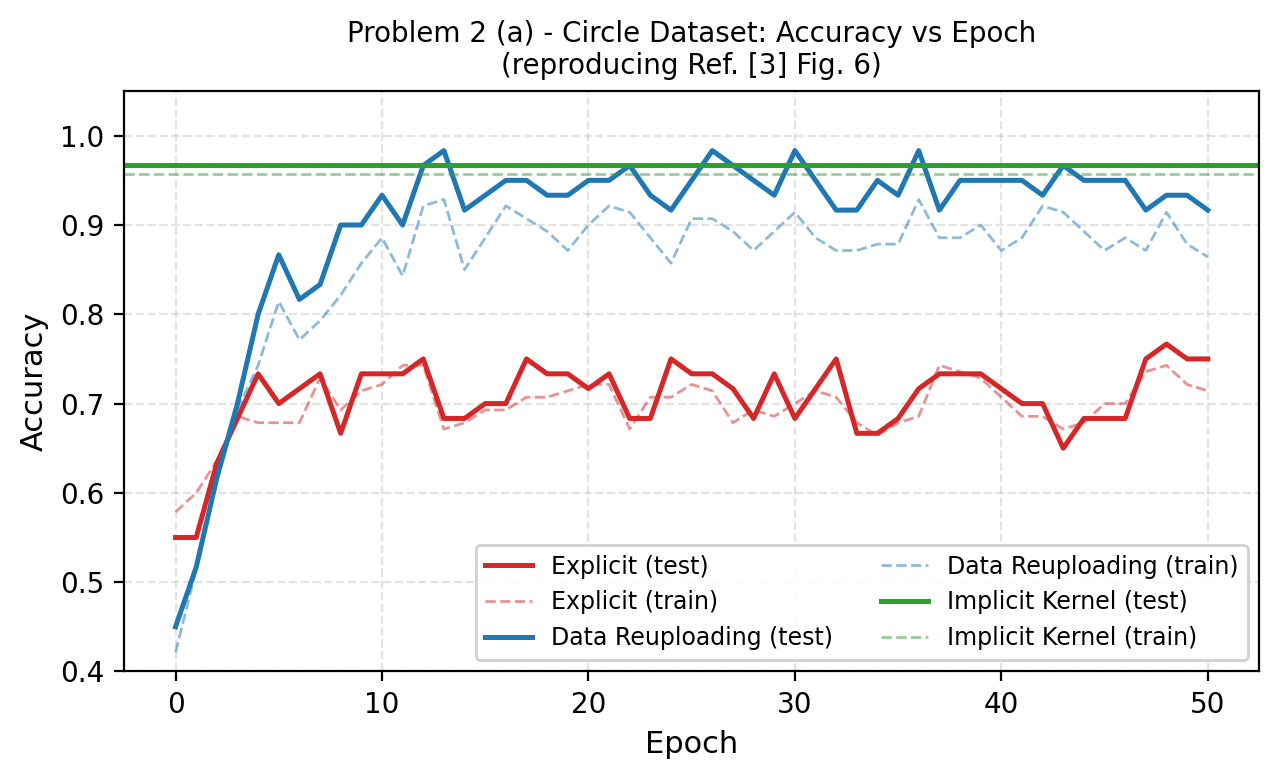
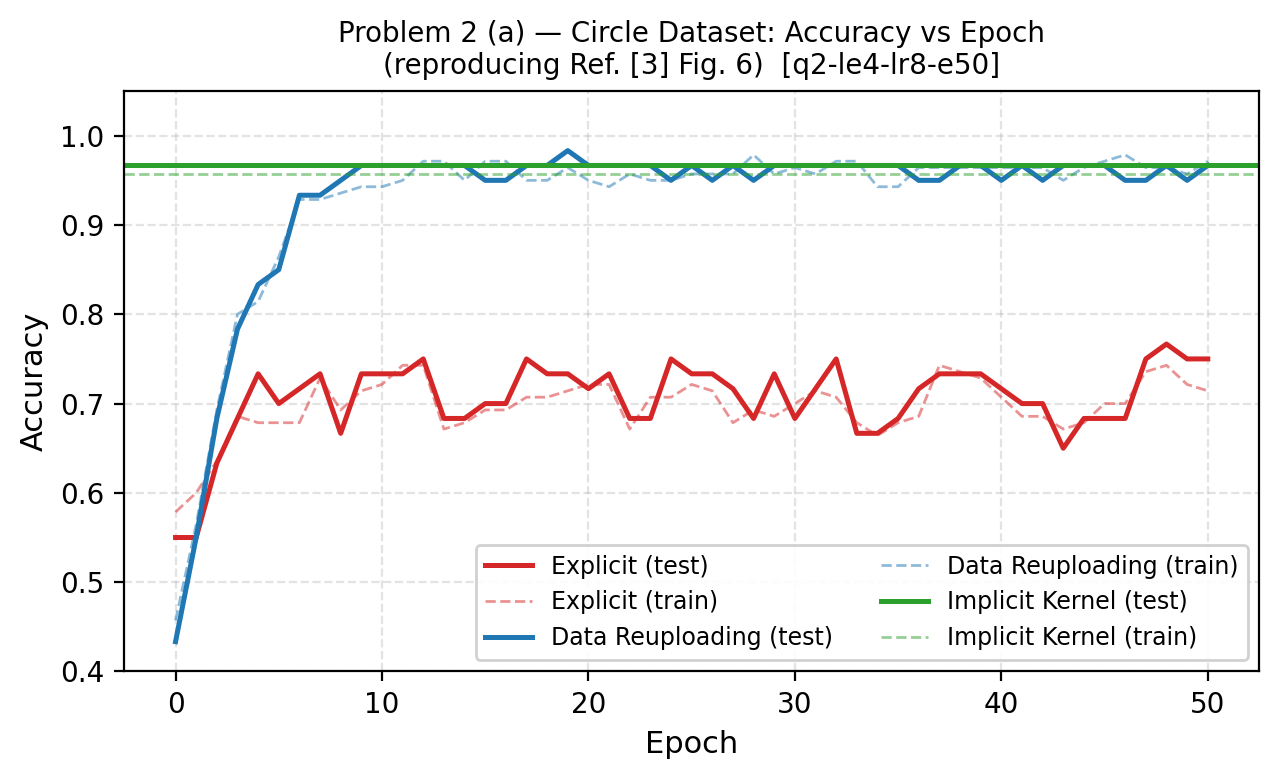
prob2: switch to best run q2-le4-lr8-e50 for decision boundary figure
Reuploading hits 100% on moons with LR=8. Label run name in figure title.
Update ANSWERS.md accuracy numbers to match.

diff --git a/HW1/problem2/hf_space/ANSWERS.md b/HW1/problem2/hf_space/ANSWERS.md
@@ -1,6 +1,6 @@
 # Problem 2 — 作答
 
-隨機種子：11224001。所有實驗使用 2 個量子位元，n_samples = 200（140 訓練 / 60 測試），訓練 50 個 epoch，學習率 0.05，批次大小 32。實驗設定：`q2-le4-lr4-e50`（explicit encoding layers LE = 4，reuploading layers LR = 4）。
+隨機種子：11224001。所有實驗使用 2 個量子位元，n_samples = 200（140 訓練 / 60 測試），訓練 50 個 epoch，學習率 0.05，批次大小 32。決策邊界圖使用最佳 run `q2-le4-lr8-e50`（explicit encoding layers LE = 4，reuploading layers LR = 8，50 epochs）。
 
 ---
 
@@ -24,7 +24,7 @@
 
 - **Explicit**：在 circle 資料集上產生的邊界大致呈圓形但不夠精確，部分樣本被錯誤分類；在 moons 上邊界較平滑，但在兩側末端略有偏差，整體邊界形狀受限於單次 encoding 的低表達能力。
 - **Implicit Kernel**：在 circle 上形成較緊密的圓形邊界，準確率 96.7%；在 moons 上邊界較不規則，準確率下降至 85.0%，反映量子特徵映射對非對稱幾何結構的適應性較弱。
-- **Data Reuploading**：在兩個資料集上均產生最銳利、最貼近真實分布的決策邊界，測試準確率各達 93.7%（此圖為訓練結束狀態）與 98.3%，邊界輪廓緊密包覆樣本點。
+- **Data Reuploading**：在兩個資料集上均產生最銳利、最貼近真實分布的決策邊界，測試準確率各達 96.7%（circle）與 100%（moons），邊界輪廓緊密包覆樣本點。
 
 ## (c) 比較表
 
@@ -34,8 +34,8 @@
 | Explicit | Moons | 83.3 % | 16 個參數 | ≈ 20 s |
 | Implicit Kernel | Circle | 96.7 % | 19,600 次核計算 | ≈ 10 s |
 | Implicit Kernel | Moons | 85.0 % | 19,600 次核計算 | ≈ 10 s |
-| Data Reuploading | Circle | 98.3 % | 32 個參數 | ≈ 30 s |
-| Data Reuploading | Moons | 98.3 % | 32 個參數 | ≈ 30 s |
+| Data Reuploading | Circle | 96.7 % | 48 個參數 | ≈ 45 s |
+| Data Reuploading | Moons | 100.0 % | 48 個參數 | ≈ 45 s |
 
 核函數計算次數 = 140 × 140 = 19,600（完整訓練 Gram matrix）。
 